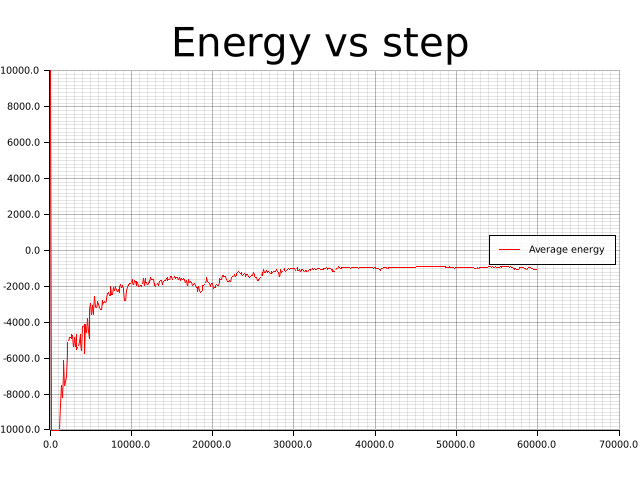
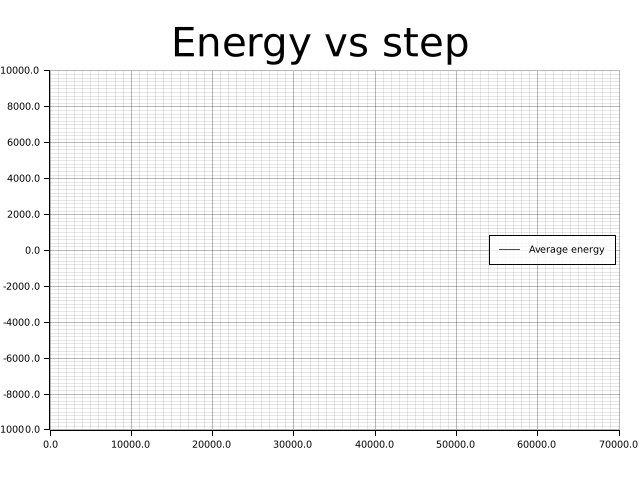
On process, resolving some issues with periodicity

Changed region(s): [[0.1562, 0.5625, 0.4375, 0.625], [0.0938, 0.625, 0.1562, 0.8438]]

diff --git a/src/core/mod.rs b/src/core/mod.rs
@@ -97,11 +97,13 @@ pub trait ReadGrid <const N: usize, E: Clone + Cardinality<N>> {
     /// Returns a slice with the shape *i.e.* number of cells on each dimension, of the grid.
     fn shape(&self) -> [usize; N];
 
+    fn dims(&self) -> Point<N>;
+
 }
 
 /// Common methods for the `HashGrid` and other `HashGrid` based structs to
 /// mutate their content at the grid or cell level.
-pub trait WriteGrid <const N: usize, E: Clone + Cardinality<N>> {
+pub trait WriteGrid <const N: usize, E: Clone + Cardinality<N>>: ReadGrid<N, E> {
     /// Returns a mutable reference of a slice with the cells inside the grid
     fn get_mut_cells(&mut self) -> &mut [HashCell<N, E>];
 
@@ -125,15 +127,61 @@ pub trait WriteGrid <const N: usize, E: Clone + Cardinality<N>> {
     /// purge and add
     fn move_dweller<I: Idx>(&mut self, indx:usize, from:I, to:I);
 
-    /// Purge elements from a cell with `coord` based on the `indices`. This function will panic if an index is
+    /// Purges elements from a cell with `coord` based on the `indices`. This function will panic if an index is
     /// out of bonds. The function returns a vector with the dropped elements
     fn purge<I: Idx>(&mut self, coord:I, indices:&mut [usize]) -> Vec<E>;
 
-    /// Purge elements from a cell with `coord` if the condition `f` is True. It returns a vector with the
+    /// Purges elements from a cell with `coord` if the condition `f` is True. It returns a vector with the
     /// dropped elements 
     fn purge_if<I: Idx, F> (&mut self, coord:I, f:F) -> Vec<E> 
     where
         F: Fn(&E) -> bool;
+
+    /// Takes a vector of elements with the `Cardinality` trait. It will try to register them to a bounding cell 
+    /// and will apply the periodic bounding box when it is the case. It returns a `Result` enum with empty 
+    /// `Ok()` or a `HashGridError` in case of failure.
+    fn try_allocate(&mut self, mut elements:Vec<E>) -> Result<(), HashGridError> {
+        while let Some(mut element) = elements.pop() {
+            let new_cell_coordinate = self.bounding_cell_coord(element.coord())?;
+            element.set_coord(element.coord().bound(self.dims()));
+            self.add_dweller(new_cell_coordinate, element)
+        }
+
+        Ok(())
+    }
+
+    /// Visits all elements of the grid and reallocates them according to their coordinates. It returns a 
+    /// `Result` enum with `Ok()` or a `HashGridError` in case of failure.
+    fn reallocate(&mut self) -> Result<(), HashGridError> {
+        for coord in self.get_cells_coords() {
+            let mut indices = Vec::with_capacity(self.get_dwellers(coord).len());
+            let mut cells_coords = Vec::with_capacity(self.get_dwellers(coord).len());
+            for (i, dweller) in self.get_dwellers(coord).iter().enumerate() {
+                let bounding_cell = self.bounding_cell_coord(dweller.coord())?;
+                if bounding_cell != coord {
+                    indices.push(i);
+                    cells_coords.push(bounding_cell)
+                }
+            }
+
+            let mut elements = self.purge(coord, &mut indices);
+
+            for _ in (0..elements.len()).rev() {
+                let element = match elements.pop() {
+                    Some(mut x) => {x.set_coord(x.coord().bound(self.dims())); x},
+                    None => break
+                };
+
+                let new_coord = cells_coords.pop().expect("Fatal error, mismatched size during reallocation");
+                
+                self.add_dweller(new_coord, element)
+            }
+
+        }
+
+        Ok(())
+    }
+
 }
 
 /// An N-dimensional, agnostic grid that provides an interface to interact with its cells and the registered
@@ -145,7 +193,7 @@ pub struct HashGrid<const N:usize, E: Clone + Cardinality<N>>
     grid: [usize; N],
     cells:Vec<HashCell<N, E>>,
     periodicity: [PeriodicImage; N],
-    pub dims: Point<N>
+    dims: Point<N>
 }
 
 impl<const N: usize, E: Clone + Cardinality<N>> HashGrid<N, E> {
@@ -392,6 +440,10 @@ impl <const N: usize, E: Clone + Cardinality<N>> ReadGrid<N, E> for HashGrid<N, 
         self.grid
     }
 
+    fn dims(&self) -> Point<N> {
+        self.dims
+    }
+
     fn cell_anchor<I: Idx>(&self, coord:I) -> Point<N> {
         let cell = coord.deflate(self.grid);
         let cell_size = self.dims / self.grid;
@@ -413,17 +465,6 @@ impl <const N: usize, E: Clone + Cardinality<N>> ReadGrid<N, E> for HashGrid<N, 
 
     fn bounding_cell_coord(&self, coord:Point<N>) -> Result<[usize; N], HashGridError> {
         let mut cell:[usize; N] = [0; N];
-        //if coord >= Point::from_scalar(0.0) && coord <= self.dims {
-        //    println!("{:?}, {:?}", coord, self.dims);
-        //    let rel_position = coord / self.dims * self.grid;
-        //    for dim in 0..N {
-        //        cell[dim] = rel_position[dim] as usize;
-        //    }
-//
-        //    return Ok(cell)
-//
-        //}
-
         for dim in 0..N {
             
             if coord[dim] >= 0.0 && coord[dim] <= self.dims[dim] {
@@ -431,7 +472,6 @@ impl <const N: usize, E: Clone + Cardinality<N>> ReadGrid<N, E> for HashGrid<N, 
             }else if coord[dim] < 0.0 {
                 if self.periodicity[dim] == PeriodicImage::LEFT || self.periodicity[dim] == PeriodicImage::BOTH {
                     let rel_cell = coord[dim] / self.dims[dim];  
-                    cell[dim] = ((self.dims[dim] - (rel_cell - rel_cell.ceil())) *  self.grid[dim] as Float) as usize;
                     cell[dim] = ((self.dims[dim] + coord[dim] % self.dims[dim]) / self.dims[dim] * self.grid[dim] as Float) as usize;
                 }else {
                     return Err(HashGridError::OutOfBounds(
@@ -450,7 +490,6 @@ impl <const N: usize, E: Clone + Cardinality<N>> ReadGrid<N, E> for HashGrid<N, 
                 }
             }
         }
-
         Ok(cell)
     }
 }

diff --git a/examples/1_montecarlo/main.rs b/examples/1_montecarlo/main.rs
@@ -1,3 +1,5 @@
+use std::cell;
+
 use plotters::prelude::*; //To use this the fontconfig library should be installed
                           // to install it run apt install libfontconfig1-dev
 use rand::{Rng, thread_rng};
@@ -80,7 +82,7 @@ struct Args {
     n_particles: i32,
     #[arg(short, long, default_value_t = 9.0)]
     cutoff: f32,
-    #[arg(short, long, default_value_t = 60000)]
+    #[arg(short, long, default_value_t = 2)]
     steps: usize
 }
 
@@ -126,7 +128,7 @@ fn main() {
     for cell_index in grid.get_cells_index() {
         for dweller in grid.get_dwellers(cell_index) {
             for neighbor in grid.get_neighbors_dwellers(cell_index) {
-                let d2 = dweller.coord().distance(&neighbor.coord());
+                let d2 = dweller.coord().squared_distance(&neighbor.coord());
                 if d2 <= cutoff2 {
                     let energy = pairwise_energy(158.5, 13.838, d2);
                     total_energy += energy;
@@ -136,14 +138,15 @@ fn main() {
     }
 
     total_energy /= 2.0;
-
     // Now we do the canonical Monte Carlo
     for step in 0..args.steps {
         if step % 100 == 0{
-            history.push((step as f32, total_energy))
+            history.push((step as f32, total_energy));
+            //println!("current energy: {}", total_energy);
         }
-
+        
         for cell_index in grid.get_cells_index() {
+            let mut elements_to_move = Vec::with_capacity(grid[cell_index].population());
             for i in 0..grid[cell_index].population() {
                 movements.0 += 1;
                 let translate = Point3D::new([
@@ -155,37 +158,64 @@ fn main() {
                 let new_pos = grid[cell_index][i].coord() + translate;
                 let mut current_particle_energy = 0.0;
                 let mut proposed_particle_energy = 0.0;
+                
+                
                 for neighbor in grid.get_neighbors_dwellers(cell_index) {
-                    let current_d2 = neighbor.coord().distance(&grid[cell_index][i].coord());
-                    let new_d2 = neighbor.coord().distance(&new_pos);
+                    let current_d2 = neighbor.coord().squared_distance(&grid[cell_index][i].coord());
+                    let new_d2 = neighbor.coord().squared_distance(&new_pos);
+                    
                     if current_d2 <= cutoff2 {
                         current_particle_energy += pairwise_energy(158.5, 13.838, current_d2);
                     }
                     if new_d2 <= cutoff2 {
-                        
-                        proposed_particle_energy += pairwise_energy(158.5, 13.838, new_d2) 
+                        proposed_particle_energy += pairwise_energy(158.5, 13.838, new_d2);
+                         
                     }
                 }
 
                 let new_energy = total_energy + proposed_particle_energy - current_particle_energy;
+                
                 let prob = metropolis_criteria(new_energy, total_energy, args.temperature);
+                
                 if prob > rng.gen() {
                     total_energy = new_energy;
-                    grid[cell_index][i].x = new_pos[0];
-                    grid[cell_index][i].y = new_pos[1];
-                    grid[cell_index][i].z = new_pos[2];
+                    grid[cell_index][i].set_coord(new_pos);
+                    elements_to_move.push(i);
+                    movements.1 += 1;
                 }
-                movements.1 += 1;
+                //  
             }
+            let elements = grid.purge(cell_index, &mut elements_to_move);
             
+            grid.try_allocate(elements).expect("Fatal error: Elements out of bounds")
         }
+
+        
         
         average_energy = (step as f32 * average_energy + total_energy) / (step + 1) as f32
 
     }
-
+    println!("{}", total_energy);
     graph(history).unwrap();
+    for dweller in grid.get_all_dwellers() {
+        //println!("{:?}", dweller.coord())
+    }
+
+    let mut total_energy = 0.0; 
+    for cell_index in grid.get_cells_index() {
+        for dweller in grid.get_dwellers(cell_index) {
+            for neighbor in grid.get_neighbors_dwellers(cell_index) {
+                let d2 = dweller.coord().squared_distance(&neighbor.coord());
+                if d2 <= cutoff2 {
+                    let energy = pairwise_energy(158.5, 13.838, d2);
+                    total_energy += energy;
+                    
+                }
+            }
+        }
+    }
+    println!("{}", total_energy);
     println!("The average energy of the system is {}", average_energy);
-    println!("Number of accepted movements: {} / {}", movements.0, movements.1)
+    println!("Number of accepted movements: {} / {}", movements.1, movements.0)
 
 }

diff --git a/src/utils/mod.rs b/src/utils/mod.rs
@@ -33,7 +33,7 @@ pub fn relocate_dwellers<const N: usize, E: Cardinality<N> + Clone> (grid:&mut H
 pub fn populate_randomly<const N:usize, E:Clone + Cardinality<N>>(grid: &mut HashGrid<N, E>, mut elements:Vec<E>) {
     let mut rng = thread_rng();
     while let Some(mut element) = elements.pop() {
-        let movement:Point<N> = grid.dims
+        let movement:Point<N> = grid.dims()
             .iter()
             .map(|x| rng.gen_range(0.0..*x))
             .collect();

diff --git a/examples/lj_calculations.rs b/examples/lj_calculations.rs
@@ -113,7 +113,7 @@ fn with_cells(p_per_side:u32, sep:f32, cutoff:f32) {
             }
 
             for (cell, pi) in neighbors.iter() {
-                let disp = grid.dims * *pi;
+                let disp = grid.dims() * *pi;
                 for j in cell.get_dwellers() {
                     let d = dwellers[i].coord().squared_distance(&(j.coord() + disp));
                     if d > squared_cutoff {

diff --git a/src/common/point.rs b/src/common/point.rs
@@ -54,6 +54,15 @@ impl<const N:usize> Point<N> {
     pub fn to_slice(&self) -> [Float; N] {
         self.0
     }
+
+    pub fn bound(&mut self, grid:Point<N>) -> Point<N> {
+        let mut out = self.clone();
+        for dim in 0..N {
+            out[dim] = ((out[dim] % grid[dim]) + grid[dim]) % grid[dim]
+        }
+
+        out
+    }
 }
 
 impl<const N: usize> Cardinality<N> for Point<N> {

diff --git a/src/dynamic/mod.rs b/src/dynamic/mod.rs
@@ -105,6 +105,10 @@ impl <const N:usize, E: Clone + Cardinality<N>> ReadGrid<N,E> for IsoHashGrid<N,
     fn size(&self) -> usize {
         self.present.size()
     }
+
+    fn dims(&self) -> Point<N> {
+        self.present.dims()
+    }
 }
 
 impl <const N:usize, E: Clone + Cardinality<N>> WriteGrid<N,E> for IsoHashGrid<N, E> {
